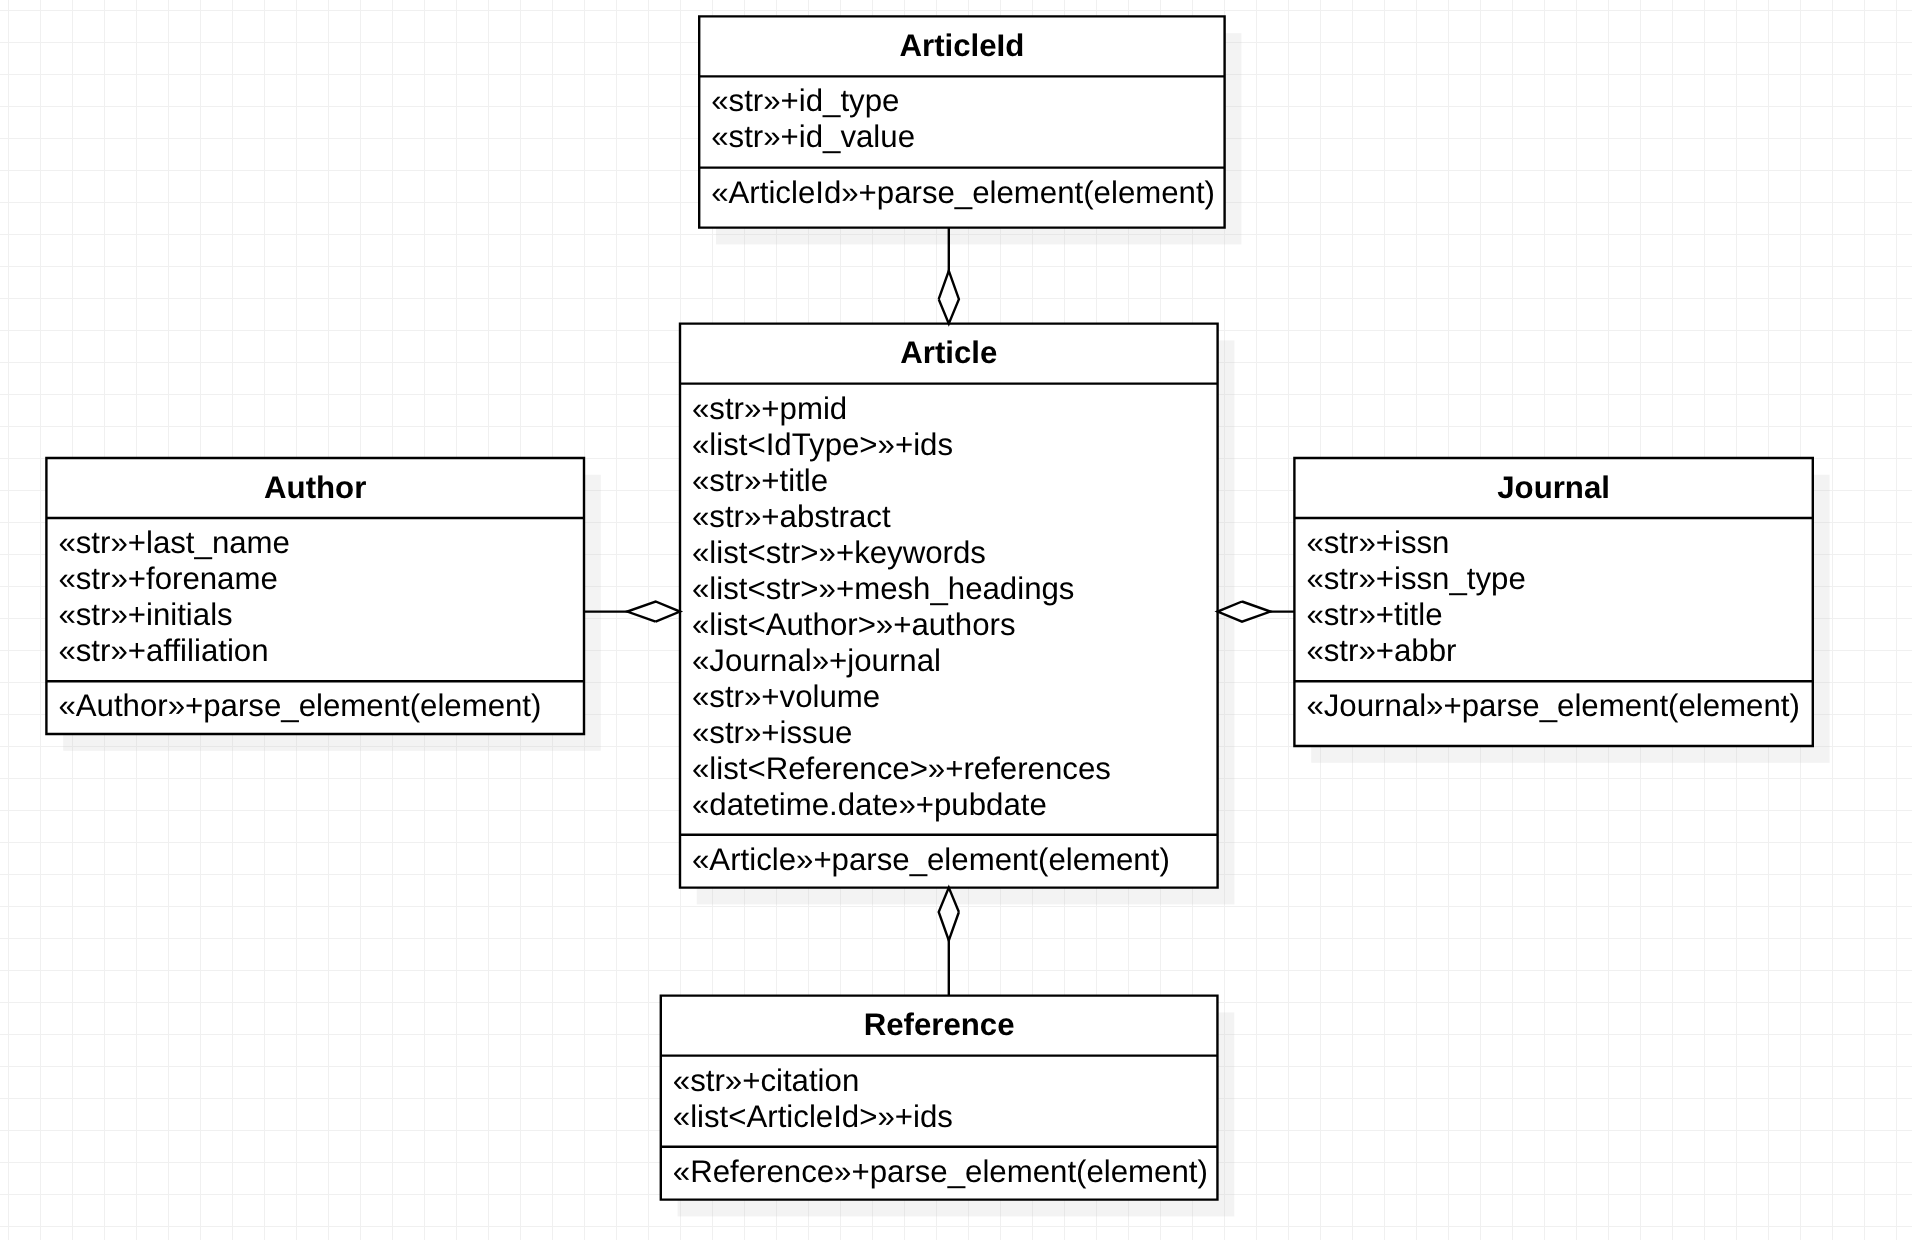
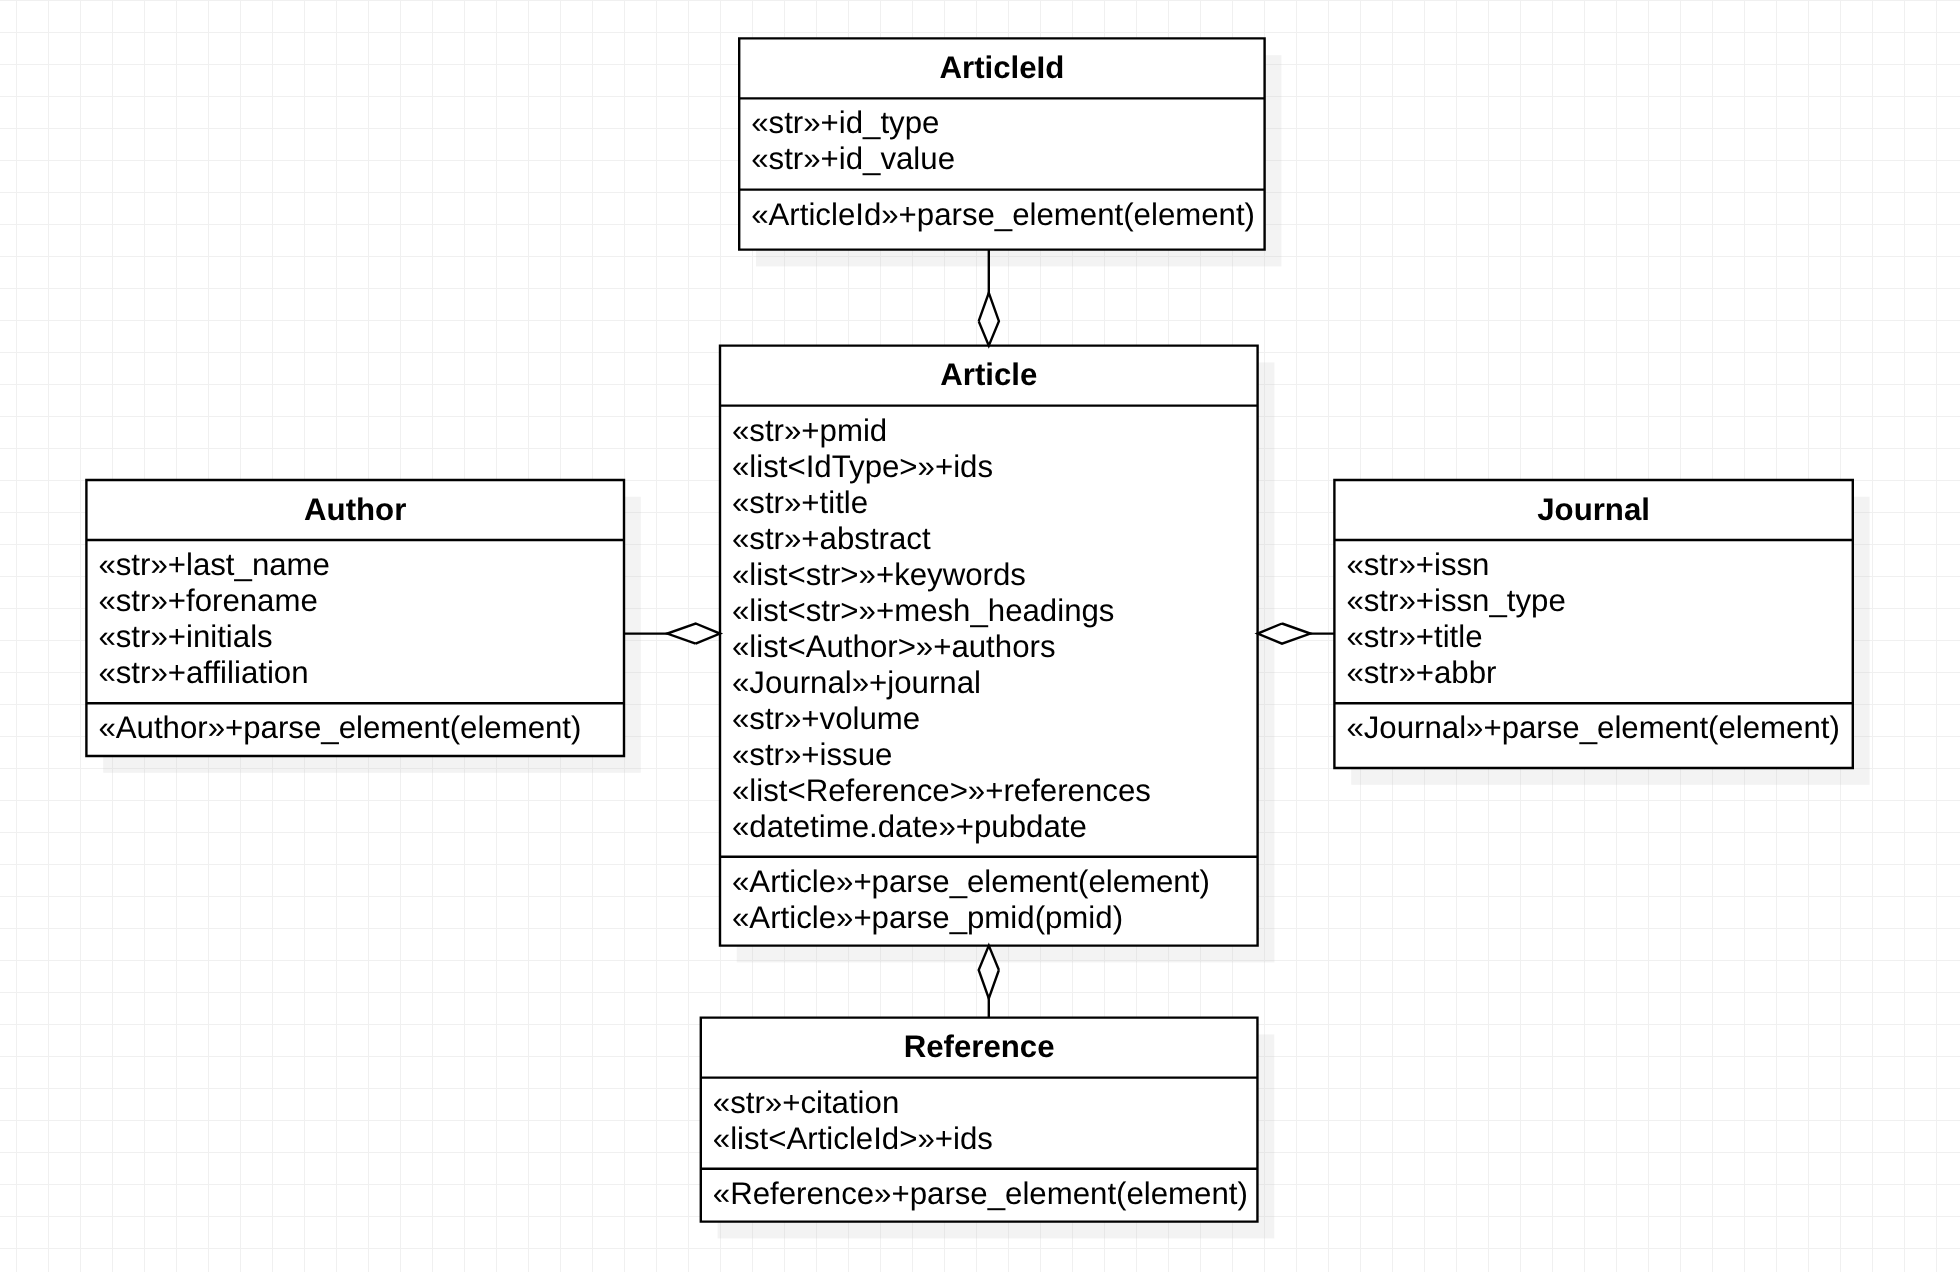
feat: add support for pubmed ID

Changed region(s): [[0.3086, 0.0, 0.9566, 0.9806], [0.0309, 0.3677, 0.3086, 0.6129]]

diff --git a/pubmed_mapper.py b/pubmed_mapper.py
@@ -9,6 +9,8 @@ import logging
 from os import listdir
 from os.path import join
 from datetime import date
+from urllib.request import urlopen
+from urllib.error import URLError, HTTPError
 
 import click
 from lxml import etree
@@ -437,6 +439,9 @@ class Author(AuthorElementParserMixin):
         self.initials = initials
         self.affiliation = affiliation
 
+    def __repr__(self):
+        return '%s %s %s' % (self.last_name, self.initials, self.forename)
+
     def to_dict(self):
         return {
             'last_name': self.last_name,
@@ -461,7 +466,7 @@ class Author(AuthorElementParserMixin):
 
 class ArticleElementParserMixin(object):
     @staticmethod
-    def parse_pmid(element):
+    def _parse_pmid(element):
         return element.xpath('./MedlineCitation/PMID/text()')[0]
 
     @staticmethod
@@ -587,6 +592,9 @@ class Article(ArticleElementParserMixin):
         self.references = references
         self.pubdate = pubdate
 
+    def __repr__(self):
+        return self.title
+
     def to_dict(self):
         return {
             'pmid': self.pmid,
@@ -605,7 +613,7 @@ class Article(ArticleElementParserMixin):
 
     @classmethod
     def parse_element(cls, element):
-        pmid = cls.parse_pmid(element)
+        pmid = cls._parse_pmid(element)
         ids = cls.parse_ids(element)
         title = cls.parse_title(element)
         abstract = cls.parse_abstract(element)
@@ -632,6 +640,21 @@ class Article(ArticleElementParserMixin):
             pubdate=pubdate
         )
 
+    @classmethod
+    def parse_pmid(cls, pmid):
+        url = ('https://eutils.ncbi.nlm.nih.gov'
+               '/entrez/eutils/efetch.fcgi?'
+               'db=pubmed&id=%s&retmode=xml') % pmid
+        try:
+            handle = urlopen(url)
+        except (URLError, HTTPError) as e:
+            logger.warning('cannot download %s', pmid)
+            logger.exception(e)
+            return None
+        root = etree.parse(handle)
+        element = root.xpath('/PubmedArticleSet/PubmedArticle')[0]
+        return cls.parse_element(element)
+
 
 @click.group()
 @click.option(
@@ -651,6 +674,24 @@ def pubmed_mapper(log_file, log_level):
     logging.basicConfig(filename=log_file, level=log_level)
 
 
+@pubmed_mapper.command(name='pmid')
+@click.option(
+    '-p', '--pmid', required=True,
+    help='PubMed ID, eg, 32329900'
+)
+def parse_pmid(pmid):
+    """
+    parse PubMed ID, eg, 32329900
+    """
+    try:
+        article = Article.parse_pmid(pmid)
+        print(json.dumps(article.to_dict(), indent=4))
+    except Exception as e:
+        logger.error('cannot parse %s', pmid)
+        logger.exception(e)
+    return 0
+
+
 @pubmed_mapper.command(name='file')
 @click.option(
     '-i', '--infile', required=True,
@@ -662,7 +703,7 @@ def pubmed_mapper(log_file, log_level):
     type=click.Path(exists=False),
     help='output file, each line is a JSON string for Article object'
 )
-def single_file(infile, outfile):
+def parse_file(infile, outfile):
     """
     parse single PubMed XML file
     """
@@ -677,7 +718,7 @@ def single_file(infile, outfile):
                 article = Article.parse_element(pubmed_article_element)
                 fp.write('%s\n' % json.dumps(article.to_dict()))
             except Exception as e:
-                pmid = Article.parse_pmid(pubmed_article_element)
+                pmid = Article._parse_pmid(pubmed_article_element)
                 logger.error('cannot parse %s', pmid)
                 logger.exception(e)
     return 0
@@ -694,7 +735,7 @@ def single_file(infile, outfile):
     type=click.Path(exists=False),
     help='output file, each line is a JSON string for Article object'
 )
-def directory(indir, outfile):
+def parse_directory(indir, outfile):
     """
     parser a directory who contains multiple PubMed XML files
     """
@@ -708,7 +749,7 @@ def directory(indir, outfile):
                         article = Article.parse_element(pubmed_article_element)
                         writer.write('%s\n' % json.dumps(article.to_dict()))
                     except Exception as e:
-                        pmid = Article.parse_pmid(pubmed_article_element)
+                        pmid = Article._parse_pmid(pubmed_article_element)
                         logger.error('cannot parse %s', pmid)
                         logger.exception(e)
     return 0

diff --git a/tests.py b/tests.py
@@ -236,7 +236,7 @@ class TestArticleElementParserMixin(object):
         </PubmedArticle>
         """
         element = etree.fromstring(xml)
-        pmid = pubmed_mapper.ArticleElementParserMixin.parse_pmid(element)
+        pmid = pubmed_mapper.ArticleElementParserMixin._parse_pmid(element)
         assert pmid == '29325141'
 
     def test_parse_ids(self):

diff --git a/setup.py b/setup.py
@@ -12,7 +12,7 @@ URL = 'https://github.com/soultoolman/pubmed-mapper'
 EMAIL = 'soultooman@gmail.com'
 AUTHOR = 'soultoolman'
 REQUIRES_PYTHON = '>=3.6.0'
-VERSION = '0.0.2'
+VERSION = '0.1.0'
 
 # What packages are required for this module to be executed?
 REQUIRED = [

diff --git a/README.md b/README.md
@@ -1,18 +1,82 @@
 # pubmed-mapper: A Python Library that map PubMed XML to Python object
 
-## UML
+## 1. Philosophy
 
-![UML](pubmed-mapper.png)
+[view UML](pubmed-mapper.png)
 
-## installation
+Programmatically access PubMed article is a common task for me.
+Luckily, with the help of [eutils](https://www.ncbi.nlm.nih.gov/books/NBK25500/),
+we can access full article data in XML format.
+What I need is Python objects, not just XML strings, so pubmed-mapper was born.
+
+## 2. Installation
 
 ```shell
 pip install pubmed-mapper
 ```
 
-## usage
+## 3. Usage
 
-### use as API
+### 3.1 use as library
+
+#### 3.1.1 parse a PubMed ID
+
+```python
+from pubmed_mapper import Article
+
+
+article = Article.parse_pmid('32329900')
+
+# PubMed ID
+print(article.pmid)  # 32329900
+
+# ids
+print(article.ids)  # [pubmed: 32329900, doi: 10.1111/jgs.16467]
+print(article.ids[1].id_type)  # doi
+print(article.ids[1].id_value)  # 10.1111/jgs.16467
+
+# title
+print(article.title)  # Associations of Coffee...
+
+# abstract
+print(article.abstract)  # <p><strong>Background: </strong>Coffee and tea...
+
+# keywords
+print(article.keywords)  # ['aging', 'coffee; diet; longevity', 'tea']
+
+# MeSH headings
+print(article.mesh_headings)  # ['Aged', 'Body Mass Index', '...']
+
+# authors
+print(article.authors)  # [hadyab AH Aladdin H, Manson JE JoAnn E, ...]
+print(article.authors[0].last_name)  # Shadyab
+print(article.authors[0].forename)  # Aladdin H
+print(article.authors[0].initials)  # AH
+print(article.authors[0].affiliation)  # Department of Family...
+
+# journal
+print(article.journal)  # Journal of the American Geriatrics Society
+print(article.journal.issn)  # 1532-5415
+print(article.journal.issn_type)  # Electronic
+print(article.journal.title)  # Journal of the American Geriatrics Society
+print(article.journal.abbr)  # J Am Geriatr Soc
+
+# volume
+print(article.volume)  # 68
+
+# issue
+print(article.issue)  # 9
+
+# references
+print(article.references)  # [n. 2013;129:643-659....]
+print(article.references[0].citation)  # Lotfield E, Freedman ND...
+print(article.references[0].ids)  # []
+
+# pubdate
+print(article.pubdate)  # 2020-09-01
+```
+
+#### 3.1.2 parse a downloaded XML file
 
 ```python
 from lxml import etree
@@ -30,23 +94,48 @@ for pubmed_article_element in root.xpath('/PubmedArticleSet/PubmedArticle'):
     articles.append(article)
 ```
 
-### use as command line software
+### 3.2 use as command line software
 
-#### parse single PubMed XML file
+#### 3.2.1 parse PubMed ID
+
+```
+pubmed-mapper pmid -p 32329900
+```
+
+#### 3.2.2 parse single PubMed XML file
 
 ```
 pubmed-mapper file -i data/pubmed21n0001.xml -o output/pubmed21n0001.jl
 ```
 
-#### parse a directory who contains multiple PubMed XML files
+#### 3.2.3 parse a directory who contains multiple PubMed XML files
 
 ```
 pubmed-mapper directory -i data/ -o output/pubmed-mapper.jl
 ```
 
-#### FAQs
+## 4. FAQs
 
-##### 1. What is pubmed-mapper.log generated by pubmed-mapper?
+### 4.1 There many types of PubMed article publication date, how do you convert it to datetime.date object?
+
+Parse publication date is a hard work, until now pubmed-mapper can't parse all types of them.
+The types pubmed-mapper can be parsed and the parsed value are:
+
+| type                  | value      |
+|:----------------------|:-----------|
+| 2021-03-13            | 2021-03-13 |
+| 2021-03               | 2021-03-01 |
+| 2021 Spring           | 2021-04-01 |
+| 2021                  | 2021-01-01 |
+| 2021 Jan-Feb          | 2021-01-01 |
+| 2021 Mar 13-15        | 2021-03-13 |
+| 2021 Mar-2022 Jan     | 2021-03-01 |
+| 2021-2022             | 2021-01-01 |
+| 2021 Mar 13-Dec 15    | 2021-03-13 |
+| 1976-1977 Winter      | 1976-01-01 |
+| 1977-1978 Fall-Winter | 1977-10-01 |
+
+#### 4.2 What is pubmed-mapper.log generated by pubmed-mapper?
 
 pubmed-mapper.log is the default log file generate by pubmed-mapper,
 you can change the file by using *--log-file* options:
@@ -57,7 +146,7 @@ pubmed-mapper --log-file my-custom.log file -i data/pubmed21n0001.xml -o output/
 
 You can go to this log file to find out more parsing details.
 
-##### 2. I want log detail message in my log file?
+#### 4.3 I want log detail message in my log file?
 
 Using *--log-level* can log more detail message:
 
